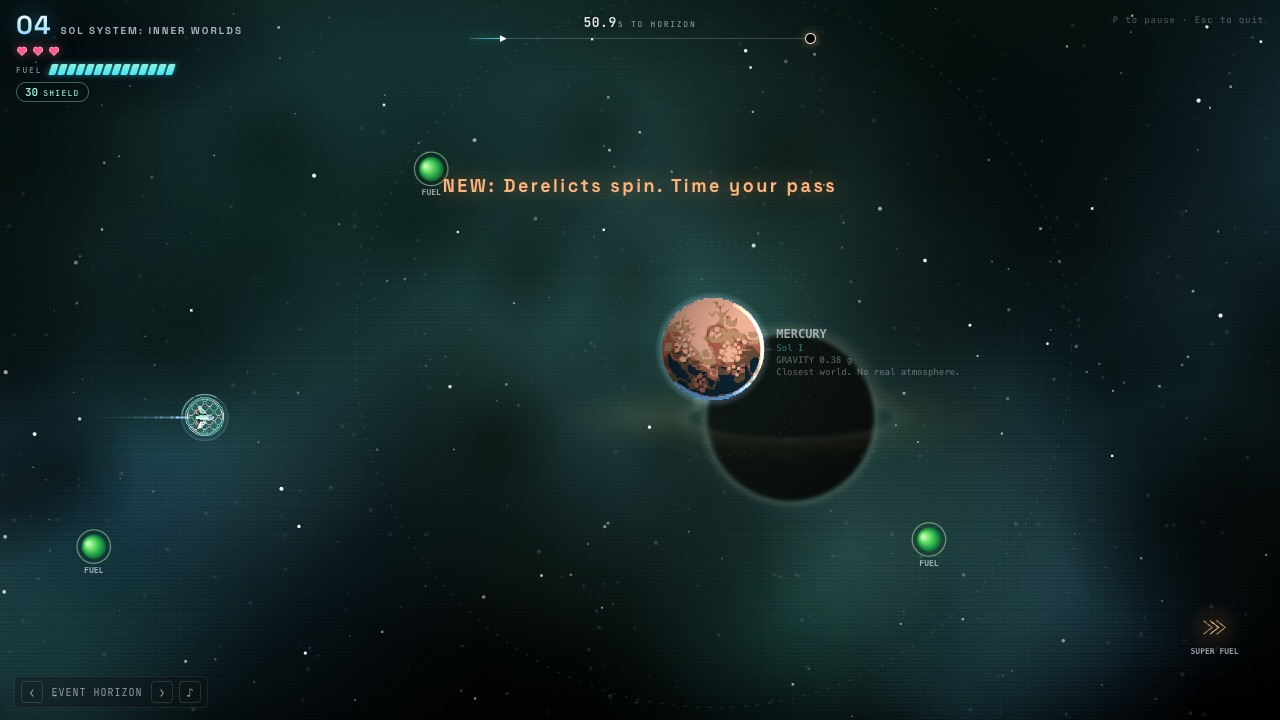
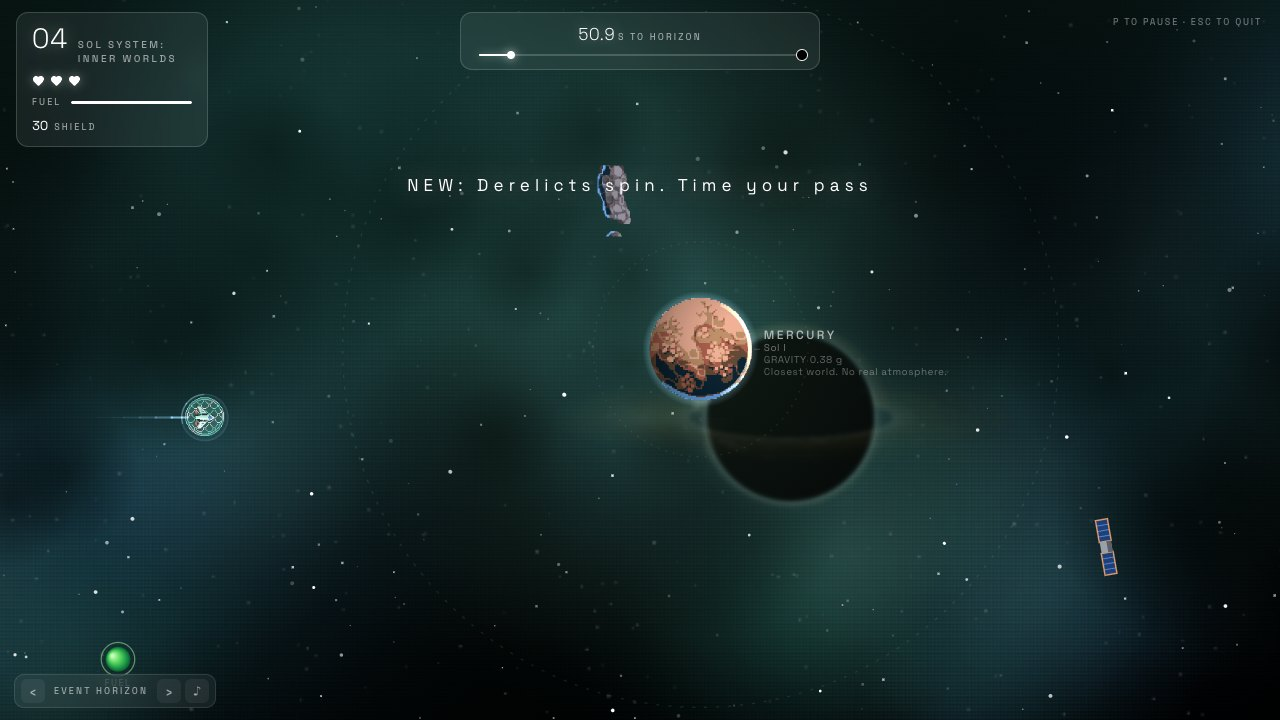
docs: refresh screenshots for the new HUD and describe the three interface passes

diff --git a/docs/CASE_STUDY.md b/docs/CASE_STUDY.md
@@ -88,7 +88,14 @@ Each level also teaches its new idea gently: a short banner when it first appear
 
 ## Look and feel
 
-The first interface was blue-black and retro. I moved it to graphite grays with a single neon cyan accent, one clean display face, and a HUD that stays out of the way: the level number, your lives, a fuel gauge, and a slim track showing how far you are from the next hole. Everything that needs more room (ships, records, settings) lives in menus instead of on screen during play.
+The interface had three passes. The first was blue-black and retro. The second was graphite grays with a neon cyan accent, which was cleaner but still looked like a game jam entry. For the third I used slowroads.io as the reference for how calm a game interface can be: frosted glass instead of boxes, small wide-spaced capital letters for labels, thin numerals, and one colour. I kept what I loved about the old HUD, the progress line to the next hole and the row of hearts, and changed everything about how they look.
+
+![The HUD before and after](screens/hud-before.jpg)
+![The HUD after](screens/hud-after.jpg)
+
+The HUD is still only four things: the level number and name, your lives, a fuel bar, and a slim track showing how far you are from the next hole. Rockets and shield show up only while you hold them. The labels drawn on the game itself (planets, the black hole's name, pickups) use the same type, so nothing looks pasted on. Anything that needs more room (ships, records, settings) lives in menus instead of on screen during play.
+
+The menus have not had this pass yet. They still carry the older graphite and cyan look, and the same treatment is next.
 
 ![The home screen](screens/02-home.jpg)
 ![The hangar](screens/04-hangar.jpg)
